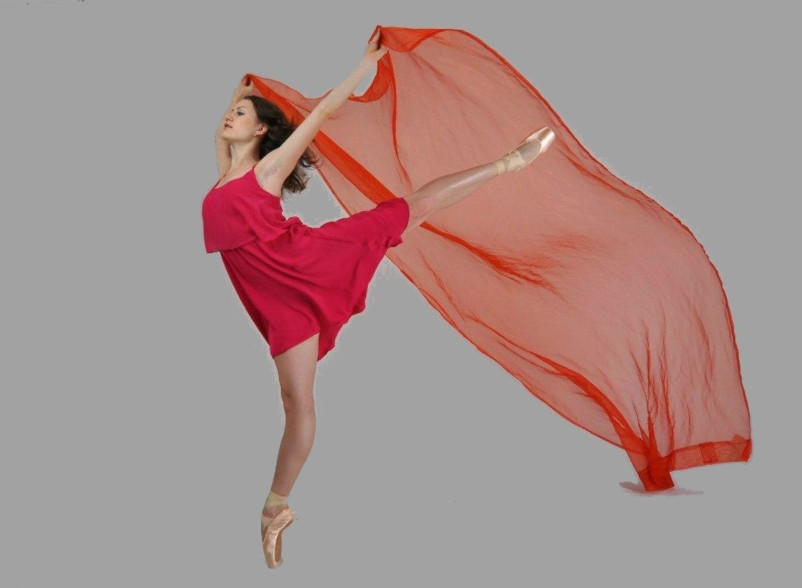
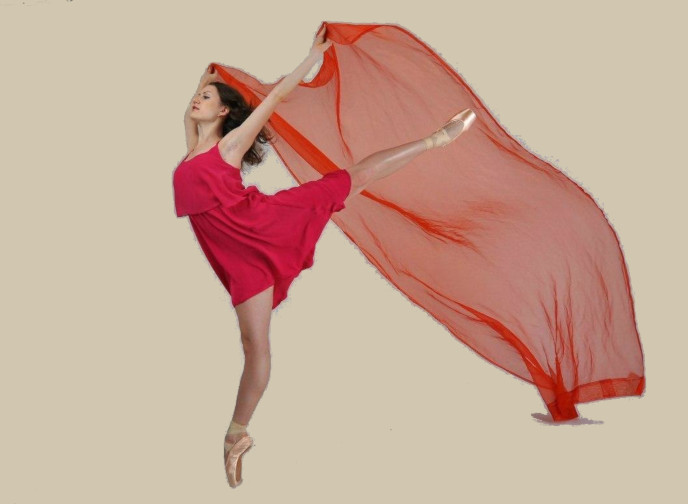
Layout

diff --git a/Frontend/src/App.vue b/Frontend/src/App.vue
@@ -69,6 +69,49 @@
 </script>
 
 <style>
+    /**
+     * Backgrounds
+     */
+    .avatar-wt-md, .avatar-wt-sm {
+        background-color: #d1c6b0;
+        min-height: 850px;
+        left: 0;
+    }
+
+    .avatar-wt-md {
+        background-position: right bottom;
+        background-image: url("./assets/avatar-white.jpg");
+        background-repeat: no-repeat;
+    }
+
+    .avatar-wt-sm {
+        background-position: right bottom;
+        background-image: url("./assets/avatar-retina-white.jpg");
+        background-repeat: no-repeat;
+        background-size: 401px 294px;
+    }
+
+    .avatar-md, .avatar-sm {
+        background-color: #000000;
+        min-height: 850px;
+        left: 0;
+    }
+    .avatar-md {
+        background-position: right bottom;
+        background-image: url("./assets/avatar.jpg");
+        background-repeat: no-repeat;
+    }
+
+    .avatar-sm {
+        background-position: right bottom;
+        background-image: url("./assets/avatar-retina.jpg");
+        background-repeat: no-repeat;
+        background-size: 400px 400px;
+    }
+
+    /**
+     * Styles
+     */
     #app {
         min-width: 400px;
     }
@@ -114,7 +157,7 @@
     }
 
     .nav-menu-open {
-        color: #bd133a;
+        color: #422827;
     }
 
     .nav-menu-close {

diff --git a/Frontend/src/views/Ballet.vue b/Frontend/src/views/Ballet.vue
@@ -1,5 +1,5 @@
 <template>
-    <b-container id="ballet-wriper">
+    <b-container id="ballet-wrapper">
         <div class="position-absolute h-100 w-100 avatar-wt-md bg d-none d-lg-block"></div>
         <div class="position-absolute h-100 w-100 avatar-wt-sm bg d-sm-block d-md-block d-lg-none"></div>
         <b-row class="content" align-v="center">
@@ -32,30 +32,10 @@ export default {
     #ballet-wrapper {
         color: #151515;
     }
-    h1 {
-        color: #bd133a;
-    }
+
     .content {
         height: 500px;
     }
 
-    .avatar-wt-md, .avatar-wt-sm {
-        background-color: #a2a2a2;
-        min-height: 850px;
-        left: 0;
-    }
-
-    .avatar-wt-md {
-        background-position: right bottom;
-        background-image: url("../assets/avatar-white.jpg");
-        background-repeat: no-repeat;
-    }
-
-    .avatar-wt-sm {
-        background-position: right bottom;
-        background-image: url("../assets/avatar-retina-white.jpg");
-        background-repeat: no-repeat;
-        background-size: 401px 294px;
-    }
 
 </style>

diff --git a/Frontend/src/views/Index.vue b/Frontend/src/views/Index.vue
@@ -28,34 +28,12 @@
 
 <style>
     #index-wrapper {
-        color: #151515;
-    }
-
-    h1 {
-        color: #bd133a;
+        color: #422827;
     }
 
     .content {
         height: 500px;
     }
 
-    .avatar-wt-md, .avatar-wt-sm {
-        background-color: #a2a2a2;
-        min-height: 850px;
-        left: 0;
-    }
-
-    .avatar-wt-md {
-        background-position: right bottom;
-        background-image: url("../assets/avatar-white.jpg");
-        background-repeat: no-repeat;
-    }
-
-    .avatar-wt-sm {
-        background-position: right bottom;
-        background-image: url("../assets/avatar-retina-white.jpg");
-        background-repeat: no-repeat;
-        background-size: 401px 294px;
-    }
 
 </style>

diff --git a/Frontend/src/views/Stretching.vue b/Frontend/src/views/Stretching.vue
@@ -32,26 +32,11 @@ export default {
     #stretching-wrapper {
         color: #b4a18a;
     }
-
+    #stretching-wrapper h1 {
+        color: #bd133a;
+    }
     .content {
         height: 500px;
-    }
-    .avatar-md, .avatar-sm {
-        background-color: #000000;
-        min-height: 850px;
-        left: 0;
-    }
-    .avatar-md {
-        background-position: right bottom;
-        background-image: url("../assets/avatar.jpg");
-        background-repeat: no-repeat;
-    }
-
-    .avatar-sm {
-        background-position: right bottom;
-        background-image: url("../assets/avatar-retina.jpg");
-        background-repeat: no-repeat;
-        background-size: 400px 400px;
     }
 
 </style>

diff --git a/Frontend/src/views/Child.vue b/Frontend/src/views/Child.vue
@@ -35,23 +35,4 @@
         height: 500px;
     }
 
-    .avatar-wt-md, .avatar-wt-sm {
-        background-color: #a2a2a2;
-        min-height: 850px;
-        left: 0;
-    }
-
-    .avatar-wt-md {
-        background-position: right bottom;
-        background-image: url("../assets/avatar-white.jpg");
-        background-repeat: no-repeat;
-    }
-
-    .avatar-wt-sm {
-        background-position: right bottom;
-        background-image: url("../assets/avatar-retina-white.jpg");
-        background-repeat: no-repeat;
-        background-size: 401px 294px;
-    }
-
 </style>

diff --git a/Frontend/src/main.js b/Frontend/src/main.js
@@ -11,8 +11,6 @@ Vue.use(VueYandexMetrika, {
   env: process.env.NODE_ENV
 });
 
-console.log(process.env.NODE_ENV);
-
 new Vue({
   el: '#app',
   router,
